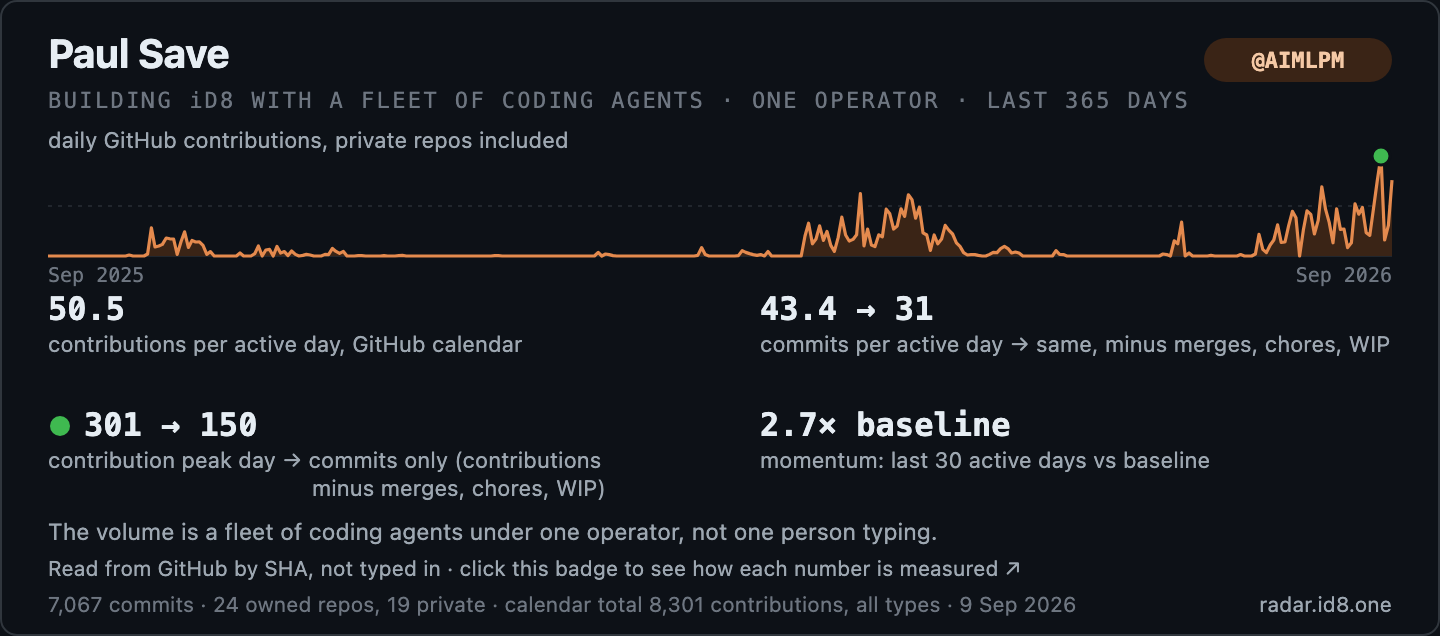
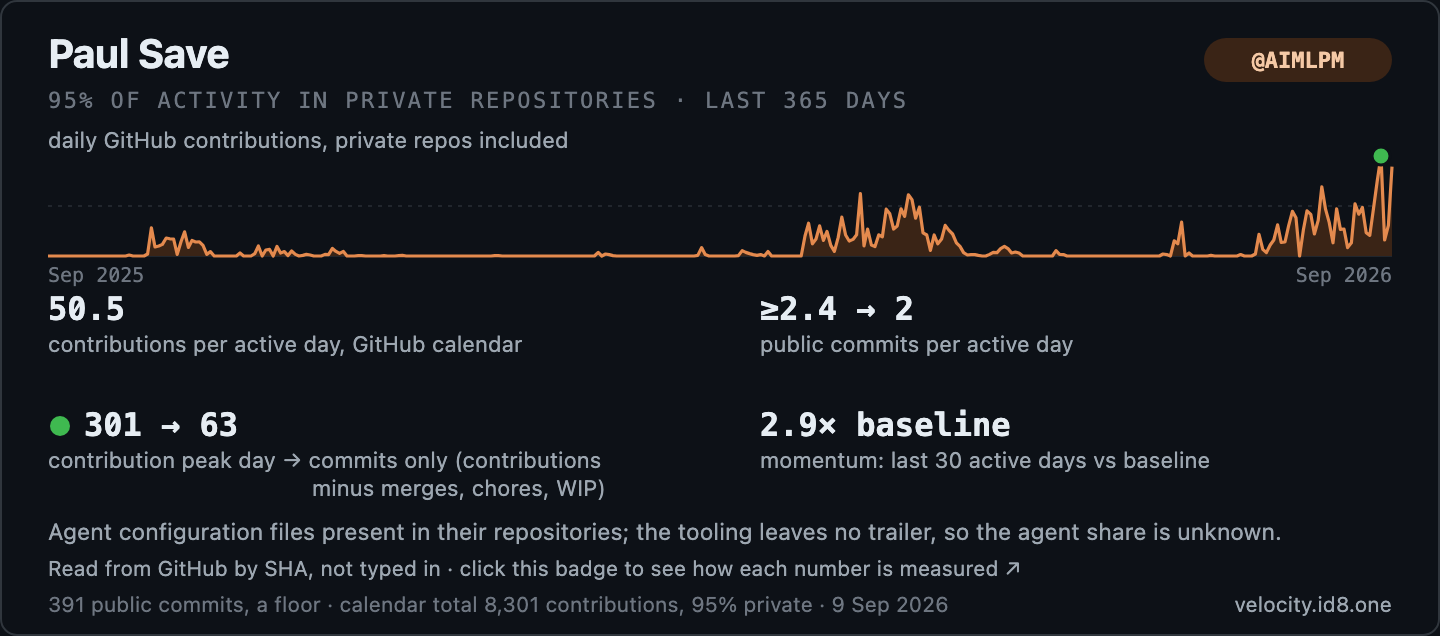
radar badge: public read only, like every other profile
The badge now carries only what anyone can read from this profile: calendar
contributions per active day (private included via the profile setting),
public commits per active day as a floor, peak day, momentum. No figures from
private repositories, no hand-written tagline. Method page moved to
velocity.id8.one/AIMLPM.

diff --git a/radar/README.md b/radar/README.md
@@ -1,17 +1,15 @@
 # What the badge on this profile means
 
-The badge is generated from GitHub's own records, not typed in. It describes one person, Paul Save, directing a fleet of coding agents to build [iD8](https://github.com/AIMLPM), so the volume is deliberately not what one person typing looks like.
+The badge is generated from GitHub's own records, not typed in, and it is read for this account exactly the way [Unlock Radar](https://velocity.id8.one) reads any other public GitHub profile: no private access, nothing entered by hand.
 
 **Contributions per active day, GitHub calendar.** GitHub's contribution calendar for the trailing 365 days, private repositories included via the "include private contributions" setting, divided by the number of days with any activity. The same totals are visible on the public profile.
 
-**Commits per active day → substantive.** The first number is every commit GitHub attributes to this account on the default branches of the 24 repositories it owns, 19 of them private, read from GitHub's copy and deduplicated by SHA. The second removes merge commits, automation-pattern commits (release chores, version bumps, evidence rows written by the pipeline itself) and micro-commits, and is the fairer figure.
+**Public commits per active day.** Commits GitHub attributes to this account on its public repositories, divided by active days. It is a floor: most of this account's work is in private repositories, which the API does not expose to anyone, so the figure carries a ≥.
 
-**Best day → substantive commits that day.** The raw calendar maximum, and the same day counted in substantive commits.
+**Peak day.** The raw calendar maximum for the year.
 
-**Momentum.** The mean of the last 30 active days against a baseline built from earlier 30-active-day windows. Above 2× for two consecutive windows would read "sustained"; today it is one window.
+**Momentum.** The mean of the last 30 active days against a baseline built from earlier 30-active-day windows.
 
-**Why 7,067 commits and 8,301 contributions are different numbers.** The calendar counts four things: commits, pull requests, issues, and reviews, across every repository the account has contributed to. The commit figure counts commits only, on default branches of owned repositories. The commit figure will always be the smaller one, and it is bounded by the calendar total anyone can check.
+**Why it is credible.** Nothing here was entered by hand, and anyone can reproduce every figure from the public profile and the public repositories with the same script.
 
-**Why it is credible.** Nothing here was entered by hand. Anyone granted read access to the repositories can reproduce the commit count, and the calendar total is public. The substantive figure exists precisely because raw commit counts flatter agent-driven work.
-
-Regenerated monthly by the same pipeline that produced the Unlock Radar, a screen over 38 well-known builders' public GitHub activity.
+Regenerated monthly by the same pipeline that produces the Unlock Radar, a screen over well-known builders' public GitHub activity. Method: https://velocity.id8.one/AIMLPM

diff --git a/profile/README.md b/profile/README.md
@@ -1,8 +1,8 @@
 <div align="center">
-  <a href="https://radar.id8.one/AIMLPM">
+  <a href="https://velocity.id8.one/AIMLPM">
     <picture>
       <source media="(prefers-color-scheme: dark)" srcset="https://raw.githubusercontent.com/AIMLPM/.github/main/radar/badge-dark.png" />
-      <img alt="Paul Save's Unlock Radar badge: GitHub-served contributions and commits per active day, private included" src="https://raw.githubusercontent.com/AIMLPM/.github/main/radar/badge-light.png" width="720" />
+      <img alt="Paul Save's Unlock Radar badge: GitHub calendar contributions per active day and public commits per active day" src="https://raw.githubusercontent.com/AIMLPM/.github/main/radar/badge-light.png" width="720" />
     </picture>
   </a>
 </div>
